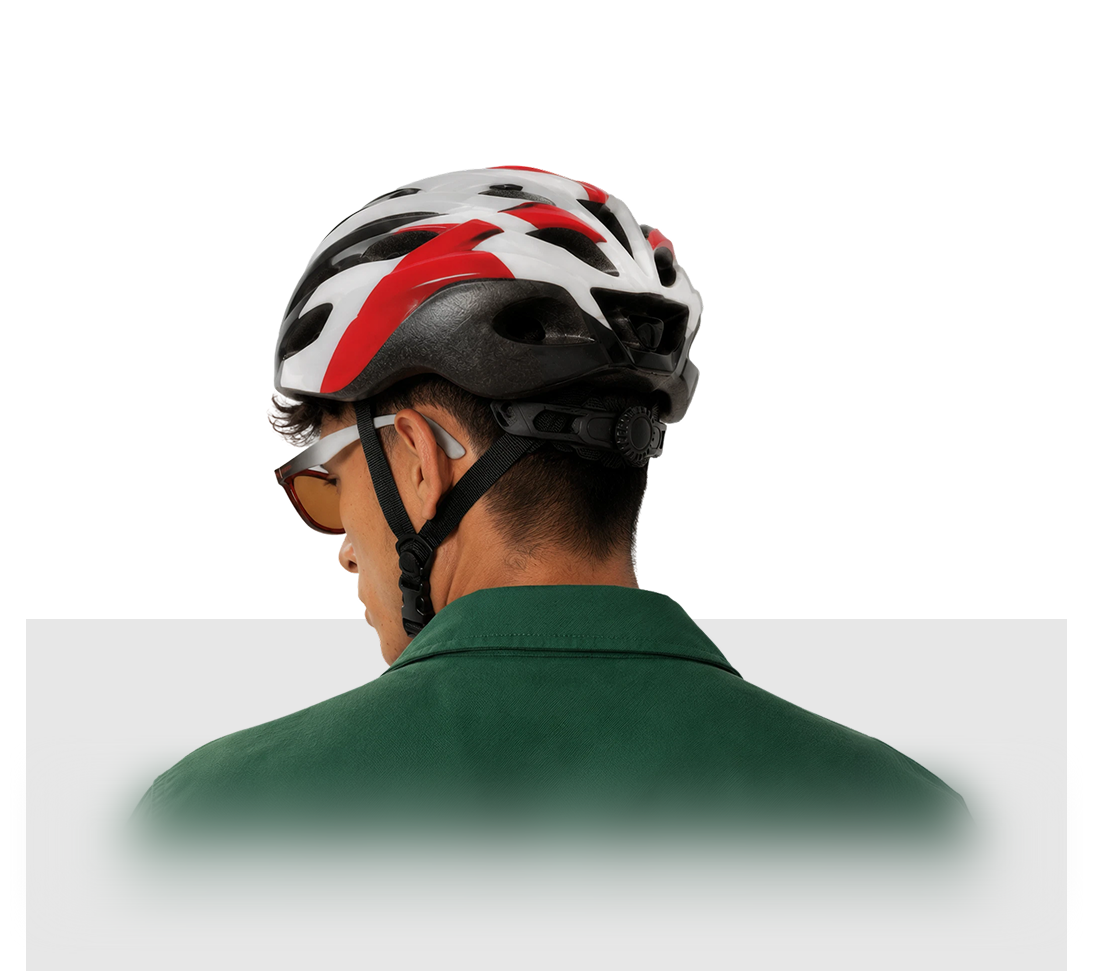
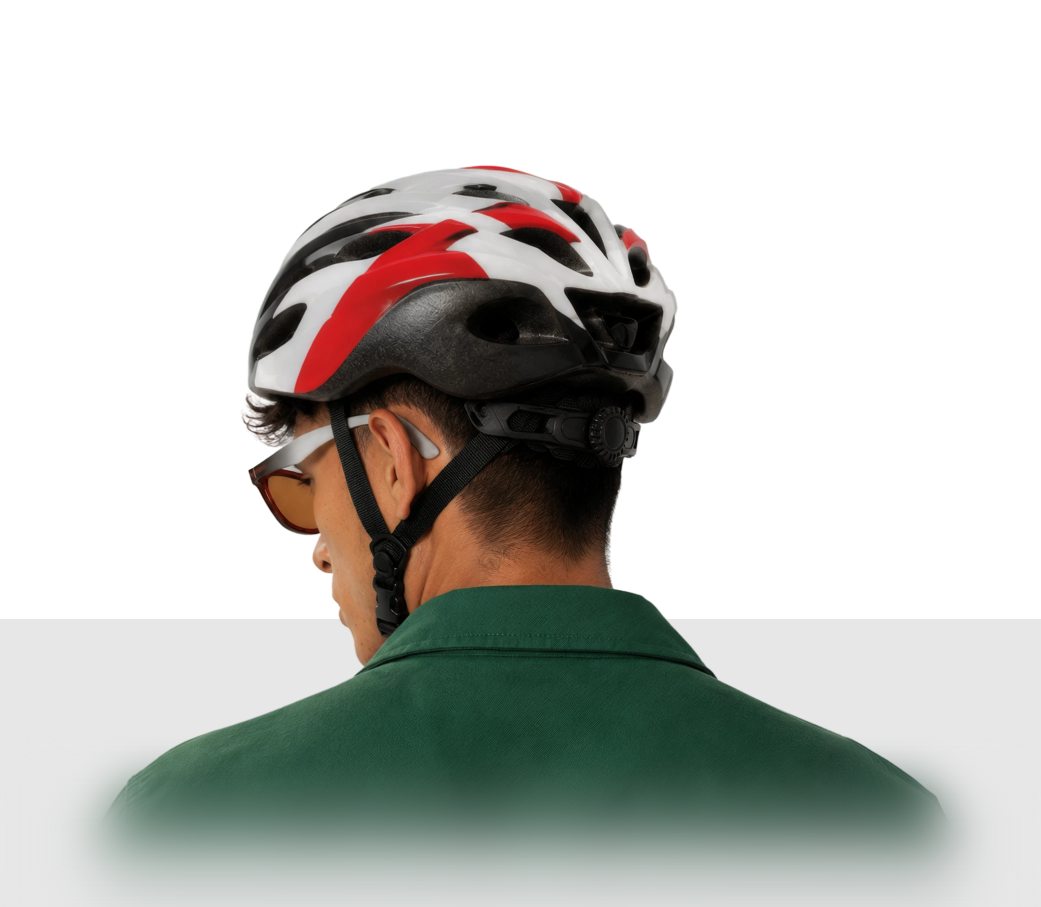
V-3.1

diff --git a/src/app/AccessoriesPage.module.scss b/src/app/AccessoriesPage.module.scss
@@ -1,5 +1,12 @@
 @import "variables";
 
+
+.main {
+  display: flex;
+  flex-direction: column;
+  gap: 0rem;
+}
+
 .hero {
   text-align: center;
   padding-top: 10rem;
@@ -12,15 +19,25 @@
   overflow: hidden;
   flex-direction: column;
 
-  @media (max-width: 60rem) {
-    min-height: 60rem;
+  @media (max-width: 768px) {
+    height: 60rem;
+  }
+
+  @media (max-width: 558px) {
+    height: 56rem;
+  }
+
+  @media (max-width: 458px) {
+    height: 46rem;
+  }
+
+  @media (max-width: 440px) {
+    height: 36rem;
   }
 
   .heromedia {
     width: 100%;
     display: flex;
-    // align-items: center;
-    // justify-content: center;
     flex-direction: column;
 
     // aspect-ratio: 3/4;
@@ -31,22 +48,16 @@
     bottom: 0;
 
     object-fit: contain;
+    object-position: bottom;
     overflow: visible;
-    height: 100%;
+    height: 90%;
     width: 100%;
-    height: 50rem;
-    // width: 100%;
-    // max-height: 90lvh;
+
     z-index: 0;
 
     @media (max-width: 60rem) {
       width: 100%;
-      height: auto;
-      // max-height: 100%;
-      // max-height: 80lvh;
 
-      // transform: translateX(4.4rem);
-      // left: 4rem;
     }
   }
 
@@ -58,9 +69,9 @@
     margin: 0;
     z-index: 0;
 
-    @media (max-width: 768px) {
-      display: none;
-    }
+    // @media (max-width: 768px) {
+    //   display: none;
+    // }
   }
 
   p {

diff --git a/src/app/AccessoriesPage.tsx b/src/app/AccessoriesPage.tsx
@@ -24,7 +24,7 @@ export default function AccessoriesPage({ models, products }: Props) {
   );
 
   return (
-    <main>
+    <main className={styles.main}>
       <section className={styles.hero}>
         <h1>ACCESSORIES</h1>
         <p>Get all your accessories here under one roof.</p>
@@ -33,14 +33,19 @@ export default function AccessoriesPage({ models, products }: Props) {
         </div>
 
         <div className={styles.heromedia}>
-          <picture>
+          {/* <picture>
             <source media="(max-width: 768px)" srcSet="/assets/MB.png" />
             <img
               src="/assets/DB.png"
               className={styles.herobanner}
               alt=""
             />
-          </picture>
+          </picture> */}
+          <img
+            src="/assets/DB.png"
+            className={styles.herobanner}
+            alt=""
+          />
         </div>
       </section>
 
